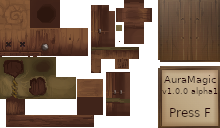
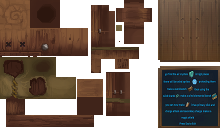
Got Aura Start Page working (Very Basic Guide) Updated StartMannequin skin, fixes for Update. Hytale broke bench (fix by replacing bench down)

Changed region(s): [[0.7364, 0.5312, 1.0, 1.0]]

diff --git a/plugins/AuraMagicPlugin/src/main/java/me/melchscat/aura/system/AuraShieldSystem.java b/plugins/AuraMagicPlugin/src/main/java/me/melchscat/aura/system/AuraShieldSystem.java
@@ -26,8 +26,6 @@ import static com.hypixel.hytale.logger.HytaleLogger.getLogger;
 
 public class AuraShieldSystem extends EntityTickingSystem<EntityStore> {
     private ComponentType<EntityStore, AuraShieldComponent> auraShieldComponentType;
-    private float healthFadeTimer = 0f;
-    private com.hypixel.hytale.protocol.ModelParticle[] shieldParticles = new com.hypixel.hytale.protocol.ModelParticle[1];
 
     @Override
     public Query<EntityStore> getQuery() {
@@ -60,7 +58,7 @@ public class AuraShieldSystem extends EntityTickingSystem<EntityStore> {
         if (auraShield.addedHealth > 0.0F){
             // if our health is zero and we are adding health reset the fade timer
             if (auraShield.health <= 0.0F){
-                healthFadeTimer = 0.0F;
+                auraShield.healthFadeTimer = 0.0F;
                 firstShow = true;
             }
 
@@ -70,14 +68,14 @@ public class AuraShieldSystem extends EntityTickingSystem<EntityStore> {
 
         if (auraShield.health > 0.0F){
             // add the delta time to the fade timer
-            healthFadeTimer += dt;
+            auraShield.healthFadeTimer += dt;
 
             // decrease the health by 1 each second
-            if ((healthFadeTimer >= 1.0F) || (firstShow)){
+            if ((auraShield.healthFadeTimer >= 1.0F) || (firstShow)){
 
                 if (!firstShow) {
                     auraShield.health -= 1.0F;
-                    healthFadeTimer = 0.0F;
+                    auraShield.healthFadeTimer = 0.0F;
                 }
 
                 // checks if there is a new type of model, if yes saves the particles to shieldParticles
@@ -87,13 +85,13 @@ public class AuraShieldSystem extends EntityTickingSystem<EntityStore> {
                         com.hypixel.hytale.server.core.asset.type.model.config.ModelParticle[] modelAssetParticles = modelAsset.getParticles();
 
                         if ((modelAssetParticles != null) && (modelAssetParticles.length > 0)){
-                            shieldParticles[0] = modelAssetParticles[0].toPacket();
+                            auraShield.shieldParticles[0] = modelAssetParticles[0].toPacket();
                             auraShield.invalidModelId = false;
                         } else {
                             auraShield.invalidModelId = true;
                         }
                     } else {
-                        shieldParticles = null;
+                        auraShield.shieldParticles = null;
                         auraShield.invalidModelId = true;
                     }
                     auraShield.hasNewModelId = false;
@@ -107,7 +105,9 @@ public class AuraShieldSystem extends EntityTickingSystem<EntityStore> {
                 if (ourPlayerReference == null)
                     return;
 
-                NetworkId networkIdComponent = (NetworkId)archetypeChunk.getComponent(ourPlayerReference.getIndex(), NetworkId.getComponentType());
+
+                Ref<EntityStore> playerRef = auraShield.ourPlayer.getReference();
+                NetworkId networkIdComponent = store.getComponent(playerRef, NetworkId.getComponentType());
 
                 if (networkIdComponent == null)
                     return;
@@ -119,10 +119,10 @@ public class AuraShieldSystem extends EntityTickingSystem<EntityStore> {
                 if (playerRefComponent == null)
                     return;
 
-                //shieldParticles[0].scale = auraShield.health / 10;
+                //auraShield.shieldParticles[0].scale = auraShield.health / 10;
 
                 // Creates the packet with the shieldParticles in it and then sends it
-                SpawnModelParticles packet = new SpawnModelParticles(playerNetworkId, shieldParticles);
+                SpawnModelParticles packet = new SpawnModelParticles(playerNetworkId, auraShield.shieldParticles);
 
                 playerRefComponent.getPacketHandler().writeNoCache(packet);
             }
@@ -210,50 +210,20 @@ public class AuraShieldSystem extends EntityTickingSystem<EntityStore> {
             if (auraShield.health <= 0.0f)
                 return;
 
-            String outStr = "OnDamage";
             float damageAmount = damage.getAmount();
-
-            outStr += ", InitDamage:";
-            outStr += Float.toString(damageAmount);
 
             if (damageAmount <= auraShield.health){
                 damage.setCancelled(true);
 
-                outStr += ", BeforeHealth:";
-                outStr += Float.toString(auraShield.health);
-
                 auraShield.health -= damageAmount;
-
-                outStr += ", AfterHealth:";
-                outStr += Float.toString(auraShield.health);
-                outStr += ", Damage Canceled";
-
             } else {
                 damageAmount -= auraShield.health;
-
-                outStr += ", BeforeHealth:";
-                outStr += Float.toString(auraShield.health);
-                outStr += ", No More Health";
-                outStr += ", AfterDamage:";
-                outStr += Float.toString(auraShield.health);
 
                 auraShield.health = 0.0f;
                 damage.setAmount(damageAmount);
             }
 
-            getLogger().at(Level.INFO).log(outStr);
+            //getLogger().at(Level.INFO).log(outStr);
         }
     }
 }
-
-// send a world particle code - saving this for later
-//TransformComponent transformComponent = (TransformComponent)store.getComponent(ourPlayerReference, TransformComponent.getComponentType());
-//if (transformComponent == null)
-//    return;
-
-//World ourPlayerWorld = auraShield.ourPlayer.getWorld();
-//if (ourPlayerWorld == null)
-//    return;
-
-//Vector3d playerPosition = auraShield.ourPlayer.getPlayerConfigData().getPerWorldData(ourPlayerWorld.getName()).getLastPosition().getPosition();
-//ParticleUtil.spawnParticleEffect(auraShield.modelId, transformComponent.getPosition(), commandBuffer);

diff --git a/plugins/AuraMagicPlugin/src/main/java/me/melchscat/aura/page/StartAuraPage.java b/plugins/AuraMagicPlugin/src/main/java/me/melchscat/aura/page/StartAuraPage.java
@@ -1,0 +1,51 @@
+package me.melchscat.aura.page;
+
+import com.hypixel.hytale.codec.builder.BuilderCodec;
+import com.hypixel.hytale.component.Ref;
+import com.hypixel.hytale.component.Store;
+import com.hypixel.hytale.protocol.packets.interface_.CustomPageLifetime;
+import com.hypixel.hytale.protocol.packets.interface_.CustomUIEventBindingType;
+import com.hypixel.hytale.protocol.packets.interface_.Page;
+import com.hypixel.hytale.server.core.entity.entities.Player;
+import com.hypixel.hytale.server.core.entity.entities.player.pages.InteractiveCustomUIPage;
+import com.hypixel.hytale.server.core.ui.builder.UICommandBuilder;
+import com.hypixel.hytale.server.core.ui.builder.UIEventBuilder;
+import com.hypixel.hytale.server.core.universe.PlayerRef;
+import com.hypixel.hytale.server.core.universe.world.storage.EntityStore;
+import org.checkerframework.checker.nullness.compatqual.NonNullDecl;
+
+import java.util.logging.Level;
+
+import static com.hypixel.hytale.logger.HytaleLogger.getLogger;
+
+public class StartAuraPage extends InteractiveCustomUIPage<StartAuraPage.filterEventData> {
+
+    public StartAuraPage(@NonNullDecl PlayerRef playerRef) {
+        super(playerRef, CustomPageLifetime.CanDismissOrCloseThroughInteraction, filterEventData.CODEC);
+    }
+
+    @Override
+    public void build(@NonNullDecl Ref<EntityStore> ref,
+                      @NonNullDecl UICommandBuilder uiCommandBuilder,
+                      @NonNullDecl UIEventBuilder uiEventBuilder,
+                      @NonNullDecl Store<EntityStore> store) {
+        uiCommandBuilder.append("Pages/StartAuraPage.ui");
+    }
+
+    @Override
+    public void handleDataEvent(@NonNullDecl Ref<EntityStore> ref,
+                                @NonNullDecl Store<EntityStore> store,
+                                @NonNullDecl filterEventData data) {
+        Player player = store.getComponent(ref, Player.getComponentType());
+        if (player == null) return;
+
+        player.getPageManager().setPage(ref, store, Page.None);
+    }
+
+    public static class filterEventData {
+        public static final BuilderCodec<filterEventData> CODEC =
+                BuilderCodec.<filterEventData>builder(
+                        filterEventData.class, filterEventData::new
+                ).build();
+    }
+}

diff --git a/plugins/AuraMagicPlugin/src/main/java/me/melchscat/aura/interaction/ShowStartAuraPage.java b/plugins/AuraMagicPlugin/src/main/java/me/melchscat/aura/interaction/ShowStartAuraPage.java
@@ -1,0 +1,46 @@
+package me.melchscat.aura.interaction;
+
+import com.hypixel.hytale.codec.Codec;
+import com.hypixel.hytale.codec.KeyedCodec;
+import com.hypixel.hytale.codec.builder.BuilderCodec;
+import com.hypixel.hytale.component.Ref;
+import com.hypixel.hytale.component.Store;
+import com.hypixel.hytale.protocol.InteractionType;
+import com.hypixel.hytale.server.core.entity.InteractionContext;
+import com.hypixel.hytale.server.core.entity.entities.Player;
+import com.hypixel.hytale.server.core.modules.interaction.interaction.CooldownHandler;
+import com.hypixel.hytale.server.core.modules.interaction.interaction.config.SimpleInteraction;
+import com.hypixel.hytale.server.core.universe.world.World;
+import com.hypixel.hytale.server.core.universe.world.storage.EntityStore;
+import me.melchscat.aura.page.StartAuraPage;
+
+import javax.annotation.Nonnull;
+
+import java.util.logging.Level;
+
+import static com.hypixel.hytale.logger.HytaleLogger.getLogger;
+
+public class ShowStartAuraPage extends SimpleInteraction {
+    @Override
+    protected void tick0(boolean firstRun,
+                         float time,
+                         @Nonnull InteractionType type,
+                         @Nonnull InteractionContext context,
+                         @Nonnull CooldownHandler cooldownHandler) {
+        Ref<EntityStore> owningEntityRef = context.getOwningEntity();
+        Store<EntityStore> store = owningEntityRef.getStore();
+        Player player = store.getComponent(owningEntityRef, Player.getComponentType());
+
+        if (player == null) return;
+
+        World world = player.getWorld();
+
+        world.execute( () -> {
+            player.getPageManager().openCustomPage(owningEntityRef, store, new StartAuraPage(player.getPlayerRef()));
+        });
+    }
+
+    public static final BuilderCodec<ShowStartAuraPage> CODEC = BuilderCodec.builder(
+                    ShowStartAuraPage.class, ShowStartAuraPage::new, ShowStartAuraPage.CODEC)
+            .build();
+}

diff --git a/plugins/AuraMagicPlugin/src/main/java/me/melchscat/aura/AuraMagicPlugin.java b/plugins/AuraMagicPlugin/src/main/java/me/melchscat/aura/AuraMagicPlugin.java
@@ -9,6 +9,7 @@ import com.hypixel.hytale.server.core.universe.world.storage.EntityStore;
 import com.hypixel.hytale.server.core.universe.world.worldgen.provider.IWorldGenProvider;
 import me.melchscat.aura.component.AuraShieldComponent;
 import me.melchscat.aura.interaction.ChargeAuraShield;
+import me.melchscat.aura.interaction.ShowStartAuraPage;
 import me.melchscat.aura.worldgen.CustomWorldGenProvider;
 import me.melchscat.aura.system.AuraShieldSystem;
 import org.checkerframework.checker.nullness.compatqual.NonNullDecl;
@@ -18,7 +19,7 @@ public class AuraMagicPlugin extends JavaPlugin {
     private ComponentType<EntityStore, AuraShieldComponent> auraShieldComponentType;
 
 
-    //This is temporary code, Later on I will change to to read from json files
+    //This is temporary code, Later on I will change to read from json files
     public String WindGemBlock = "Rock_Gem_Aquamarine";
     public String WindCrystalBlock = "Spawner_Wind_Sprite";
     public String WindCrystalLarge = "Rock_Crystal_Wind_Large";
@@ -52,6 +53,8 @@ public class AuraMagicPlugin extends JavaPlugin {
 
         getEntityStoreRegistry().registerSystem(new AuraShieldSystem());
         getEntityStoreRegistry().registerSystem(new AuraShieldSystem.OnDamageReceived());
+
+        Interaction.CODEC.register("ShowStartAuraPage", ShowStartAuraPage.class, ShowStartAuraPage.CODEC);
     }
 
     public ComponentType<EntityStore, AuraShieldComponent> getAuraShieldComponentType() {

diff --git a/plugins/AuraMagicPlugin/src/main/java/me/melchscat/aura/type/AuraMagicType.java b/plugins/AuraMagicPlugin/src/main/java/me/melchscat/aura/type/AuraMagicType.java
@@ -36,28 +36,20 @@ public enum AuraMagicType {
 
     // --- LOGIC METHODS ---
 
-    /** Checks if this is a "Base" element or a mixture */
     public boolean isMixed() {
         return parent1 != null && parent2 != null;
     }
 
-    /** Returns the cost to un-mix (Example logic) */
     public int getUnmixCost() {
         return isMixed() ? 50 : 0;
     }
 
-    /** * Logic for Void/Infinity "Splitting"
-     * Returns a 'Crazy' version of the spell if Infinity is applied
-     */
     public String applyModifier(AuraMagicType modifier) {
         if (modifier == VOID) return "Controlled " + this.name();
         if (modifier == INFINITY) return "Shattered/Crazy " + this.name();
         return this.name();
     }
 
-    /** * The Mixer: Finds a result based on two inputs.
-     * Use this in your 'Crafting' or 'Casting' logic.
-     */
     public static Optional<AuraMagicType> mix(AuraMagicType a, AuraMagicType b) {
         for (AuraMagicType type : values()) {
             if (type.isMixed()) {

diff --git a/plugins/AuraMagicPlugin/src/main/java/me/melchscat/aura/component/AuraShieldComponent.java b/plugins/AuraMagicPlugin/src/main/java/me/melchscat/aura/component/AuraShieldComponent.java
@@ -20,6 +20,8 @@ public class AuraShieldComponent implements Component<EntityStore> {
 
     public float health = 0f;
     public float addedHealth = 0f;
+    public float healthFadeTimer = 0f;
+    public com.hypixel.hytale.protocol.ModelParticle[] shieldParticles = new com.hypixel.hytale.protocol.ModelParticle[1];
     public String modelId = "";
     public Boolean hasNewModelId = false;
     public Boolean invalidModelId = true;

diff --git a/plugins/AuraMagicPlugin/src/main/java/me/melchscat/aura/worldgen/CustomZonesLoader.java b/plugins/AuraMagicPlugin/src/main/java/me/melchscat/aura/worldgen/CustomZonesLoader.java
@@ -15,10 +15,6 @@ import javax.annotation.Nonnull;
 import java.nio.file.Path;
 import java.util.Map.Entry;
 
-import java.util.logging.Level;
-
-import static com.hypixel.hytale.logger.HytaleLogger.getLogger;
-
 public class CustomZonesLoader extends Loader<SeedStringResource, Zone[]> {
 
     protected final FileLoadingContext loadingContext;
